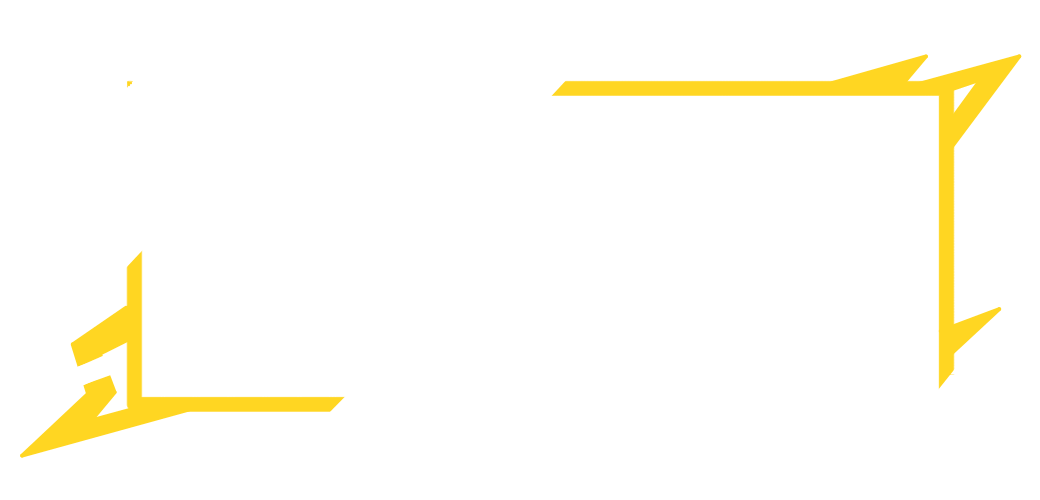
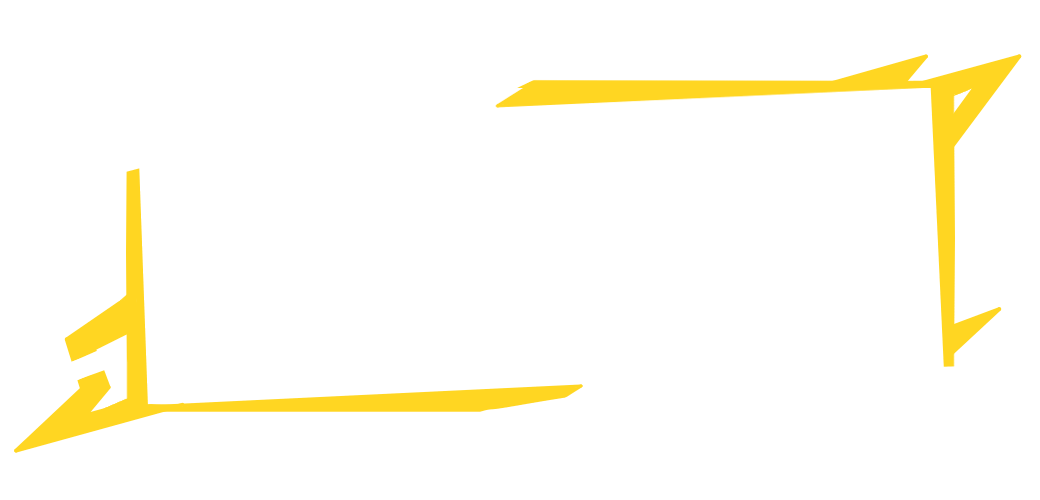
clean border design and yea

diff --git a/project_root/public/css/home_css/style.css b/project_root/public/css/home_css/style.css
@@ -51,7 +51,7 @@ body {
 
 /* Dark overlay on video */
 .overlay {
-    position: absolute;
+    position: fixed;
     top: 0;
     left: 0;
     width: 100%;
@@ -86,8 +86,8 @@ body {
 }
 
 .logo {
-    height: 80%;
-    width: 80%;
+    height: 40%;
+    width: 40%;
 }
 
 /* Title header "Guess the Marvel Rivals Character" */
@@ -108,7 +108,7 @@ body {
     display: flex;
     flex-direction: column;
     /* Stack the rectangles vertically */
-    gap: 15px;
+    gap: 50px;
     /* Space between the rectangles */
     justify-content: flex-start;
     /* Align items at the top */
@@ -125,51 +125,56 @@ body {
 .mode_link_box {
     display: flex;
     position: relative;
+    /* Needed for layering the border image */
     height: 75px;
     width: 200px;
     background-color: #0000001b;
-    border-radius: 0px;
-    border: 3px solid #ffffff2d;
-    /* Outer border for the entire box */
+    /* Inner background color */
+    border: none;
+    /* Remove default border */
     justify-content: center;
     align-items: center;
     color: rgb(255, 255, 255);
     font-size: 16px;
     font-family: MarvelFont, sans-serif;
-    transition: transform 0.1s ease-in-out, background-color 0.1s ease-in-out, border 0.3s ease-in-out;
-    box-shadow: 2px 2px 8px rgba(0, 0, 0, 0.2);
-    /* Shadow for the box */
+    transition: transform 0.1s ease-in-out, background-color 0.1s ease-in-out;
+    z-index: 1;
+    /* Ensure the content stays on top */
+}
+
+.mode_link_box::before {
+    content: '';
+    position: absolute;
+    top: -24px;
+    /* Position the border image relative to the box */
+    left: -36px;
+    /* Adjust these values to center the border */
+    width: 260px;
+    /* Match your border image size */
+    height: 125px;
+    background-image: url('../../_images/home_images/skinnyborder.png');
+    background-size: cover;
+    /* Ensure the image scales correctly */
+    background-repeat: no-repeat;
+    pointer-events: none;
+    /* Allow clicks to pass through to the content */
+    z-index: -1;
+    /* Place the border behind the content */
 }
 
 .mode_link_box:hover {
     transform: scale(1.02);
     background-color: rgba(152, 171, 215, 0.507);
+    /* Change inner background color on hover */
 }
 
-/* Custom border effect on hover */
-.mode_link_box::after {
-    content: '';
-    position: absolute;
-    top: -24px;
-    /* Adjust as needed */
-    left: -36px;
-    /* Adjust as needed */
-    width: 260px;
-    /* Adjust width to fit your design */
-    height: 125px;
-    /* Adjust height to fit your design */
+.mode_link_box:hover::before {
     background-image: url('../../_images/home_images/border.png');
-    background-size: cover;
-    opacity: 0;
-    /* Make it invisible initially */
-    transition: opacity 0.3s ease-in-out;
-    z-index: -1;
-    /* Ensure the custom border appears behind the box */
-}
-
-.mode_link_box:hover::after {
-    opacity: 1;
-    /* Make the custom border visible on hover */
+        /* Hover border image */
+    /* Optional: Add effects for the border on hover */
+ 
+    /* Slightly scale the border image */
+    transition: transform 0.3s ease-in-out;
 }
 /* Other sites box */
 .other_sites_box {
